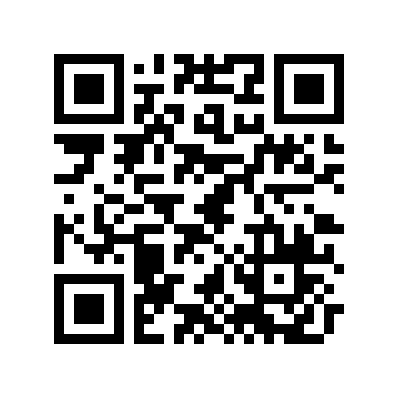
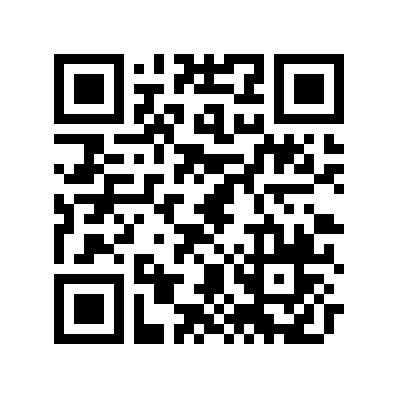
balşlangıç yönlendirmesi ve layout düzeltildi

Changed region(s): [[0.12, 0.36, 0.42, 0.84], [0.51, 0.66, 0.54, 0.69]]

diff --git a/Paradise54/Controllers/AdminController.cs b/Paradise54/Controllers/AdminController.cs
@@ -36,7 +36,8 @@ namespace Paradise54.Controllers
         public IActionResult QRCode(IFormCollection formCollection)
         {
             var writer = new QRCodeWriter();
-            var resultBit = writer.encode(formCollection["QRCodeString"], ZXing.BarcodeFormat.QR_CODE, 200, 200);
+            string url = "paradise54.com/Home/Foods?tablenum=" + formCollection["QRCodeString"];
+            var resultBit = writer.encode(url, ZXing.BarcodeFormat.QR_CODE, 200, 200);
             
             var matrix = resultBit;
             int scale = 2;
@@ -55,15 +56,13 @@ namespace Paradise54.Controllers
                     }
                 }
             }
-            string QR = formCollection["QRCodeString"];//TABLENUMA KADAR GIT 
+            string QR = url;//TABLENUMA KADAR GIT 
             
             //paradise54.com/Home/Foods?tablenum=1
-            string[] subs = QR.Split('?');
-            string[] subs2 = subs[1].Split('=');
 
             string webRootPath = _hostEnviroment.WebRootPath;
-            result.Save(webRootPath + "\\Images\\"+subs2[1]+".png");
-            ViewBag.URL = "\\Images\\"+ subs2[1] + ".png";
+            result.Save(webRootPath + "\\Images\\"+formCollection["QRCodeString"] + ".png");
+            ViewBag.URL = "\\Images\\"+ formCollection["QRCodeString"] + ".png";
             return View();
         }
 

diff --git a/DataAccessLayer/Concrete/Context.cs b/DataAccessLayer/Concrete/Context.cs
@@ -13,8 +13,8 @@ namespace DataAccessLayer.Concrete
     {
         protected override void OnConfiguring(DbContextOptionsBuilder optionsBuilder)
         {
-            optionsBuilder.UseSqlServer("server=MSI;database=paradis9_paradise54Db;integrated security=true;");
-            //optionsBuilder.UseSqlServer("server=(localdb)\\MSSQLLocalDB;database=ParadiseYeni54Db;integrated security=true;");
+            //optionsBuilder.UseSqlServer("server=MSI;database=paradis9_paradise54Db;integrated security=true;");
+            optionsBuilder.UseSqlServer("server=(localdb)\\MSSQLLocalDB;database=ParadiseYeni54Db;integrated security=true;");
         }
         public DbSet<Food> Foods { get; set; }
 

diff --git a/Paradise54/Controllers/HomeController.cs b/Paradise54/Controllers/HomeController.cs
@@ -30,7 +30,8 @@ namespace Paradise54.Controllers
 
         public IActionResult Index()
         {
-            return View();
+            // Yönlendirmeyi giriş sayfasına yapıyor
+            return Redirect("/Login/Index");
         }
 
         public IActionResult FoodDetails(int foodId, int tableNum)
